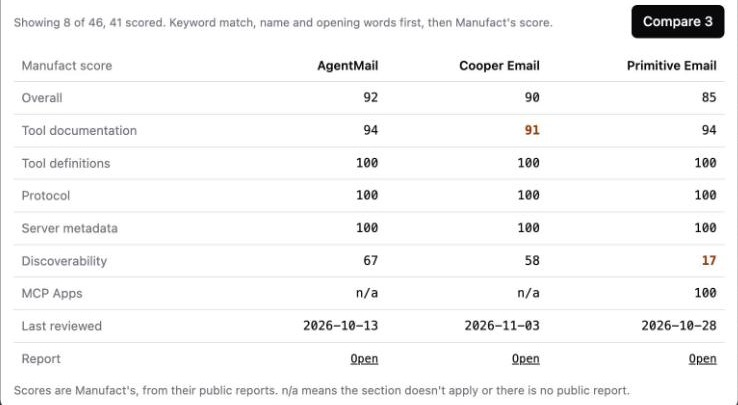
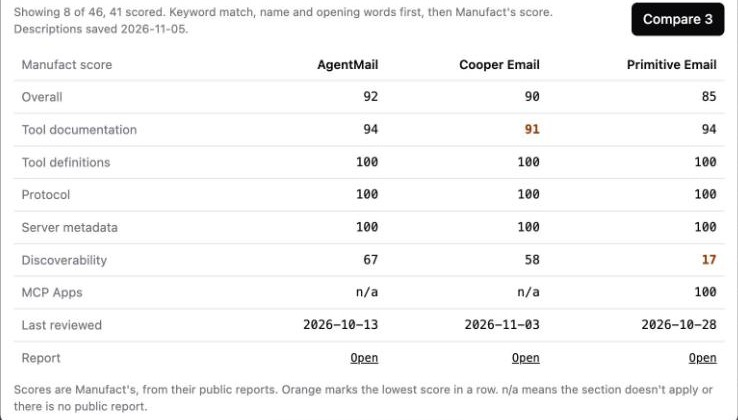
Show Compare clicked on the deployed server

diff --git a/app/page.tsx b/app/page.tsx
@@ -60,7 +60,7 @@ export default function Home() {
 
       <section className="mt-10">
         <h2 className="text-lg font-semibold">Compare, called from inside the view</h2>
-        <Image className="mt-3 h-auto w-full rounded-lg border border-[var(--line)]" src="/inspector-compare-crop.jpg" width={738} height={405} loading="eager" alt="Comparison table inside the view: AgentMail, Cooper Email and Primitive Email, section by section, with Discoverability 67, 58 and 17." />
+        <Image className="mt-3 h-auto w-full rounded-lg border border-[var(--line)]" src="/inspector-compare-crop.jpg" width={738} height={420} loading="eager" alt="Comparison table inside the view: AgentMail, Cooper Email and Primitive Email, section by section, with Discoverability 67, 58 and 17." />
         <p className="mt-2 text-sm text-[var(--muted)]">Tick servers, press Compare, and the view calls a second tool. Clicked in the hosted Inspector against the deployed server. This is the part worth copying.</p>
         <pre className="mt-3 overflow-x-auto rounded-lg bg-[var(--alt)] p-4 text-sm"><code>{viewCode}</code></pre>
       </section>
